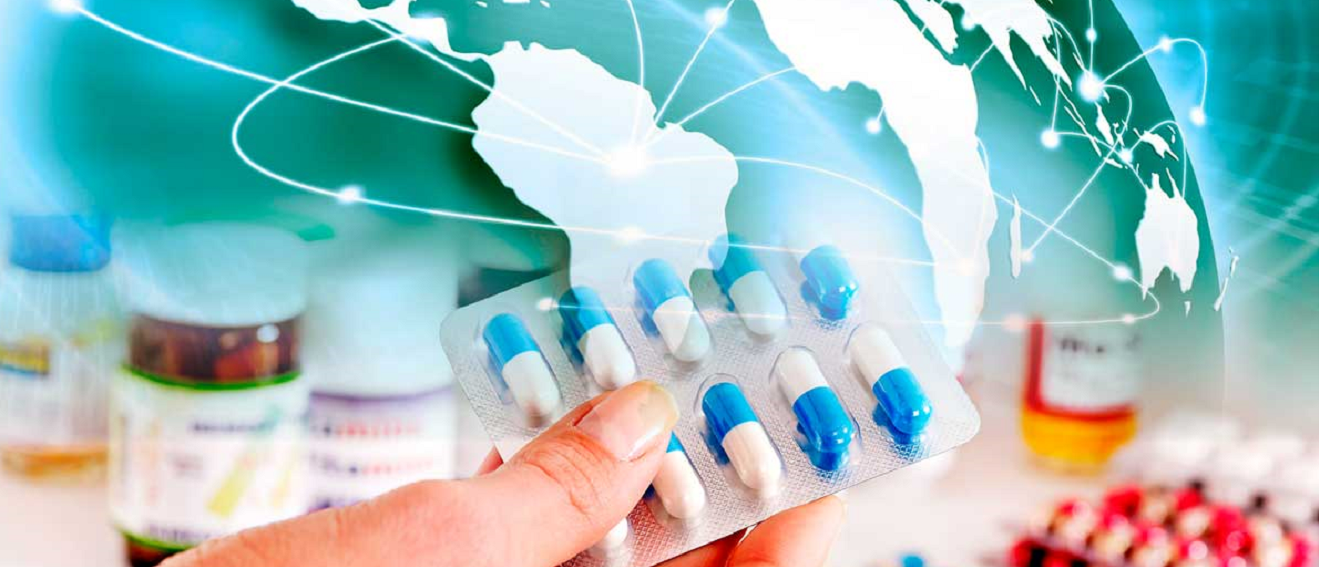
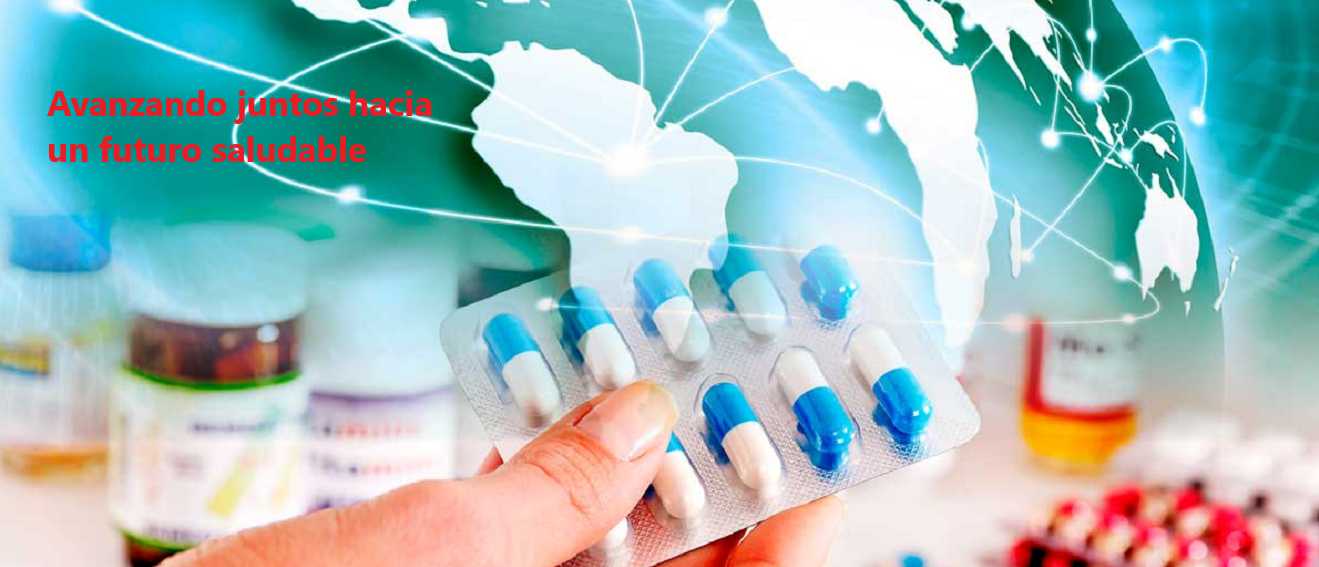
version versio 44

Changed region(s): [[0.0311, 0.1499, 0.3419, 0.2099], [0.0311, 0.2399, 0.2798, 0.2998]]

diff --git a/public/estilos.css b/public/estilos.css
@@ -414,8 +414,8 @@ input::placeholder {
 }
 
 .mosaico img {
-  width: 100%;
-  height: 100%;
+  width: 100vw;
+  height: auto;
 }
 
 button {
@@ -520,35 +520,37 @@ s #paginablog {
   flex-direction: column;
   justify-content: space-between;
   align-items: center;
-  margin-bottom: 30px;
+  margin-bottom: 2vw;
   background-color: #f1efef;
-  padding-bottom: 80px;
+  padding-bottom: 4vw;
 }
 
 #textIni {
   width: 95%;
-  height: 20px;
-  margin-top: 80px;
-  margin-left: 50px;
+  height: auto;
+  margin-top: 4vw;
+  margin-left: 3.2vw;
   border-bottom: red;
 }
 
+#textIni span{
+color:red;
+}
+
 #blogs {
-  margin-left: 50px;
-  margin-bottom: 10px;
-  margin-top: 50px;
-  width: 95%;
+  width: 93.5%;
+  margin: 3vw 0 1vw 3.8vw;
   height: auto;
   display: grid;
   grid-template-columns: repeat(3, 1fr);
-  grid-gap: 100px 60px;
+  grid-gap: 4vw 3vw;
   z-index: 0;
 }
 
 .div-blogs {
   display: flex;
   flex-direction: column;
-  gap: 10px;
+  gap: 1vw;
   background-color: white;
   box-shadow: 0px 0px 12px rgb(214, 213, 213);
 }
@@ -557,8 +559,7 @@ s #paginablog {
   width: 100%;
   height: 250px;
   float: left;
-  margin-right: 15px;
-  margin-bottom: 10px;
+  margin: 0 1vw .5vw 0;
 }
 
 .blogCategoria {
@@ -577,27 +578,27 @@ s #paginablog {
   justify-content: center;
   align-items: center;
   text-align: center;
-  font-size: 20px;
+  font-size: 1.2vw;
   font-weight: bold;
   color: black;
-  margin-bottom: 5px;
 }
 
 .p-blogs {
-  margin: 0px 15px 0 20px;
+  margin: 0 1vw 0 1vw;
   text-align: justify;
-  font-size: 15px;
-  line-height: 2;
+  font-size: 1vw;
+  line-height: 1.7;
   font-family: Tahoma;
   color: black;
 }
 
 .blogImgFinal {
-  margin-top: 20px;
-  margin-left: 80px;
-  margin-bottom: 10px;
+  margin: 1.5vw 1vw 1vw 1vw;
   display: flex;
   flex-direction: row;
+  justify-content: center;
+  align-items: center;
+  text-align: center;
 }
 
 
@@ -1439,7 +1440,7 @@ area de los mensaje ================================  alestas
 }
 
 #footerBase {
-  margin: 0 20px 20px 43px;
+  margin: 0 20px 20px 3.3vw;
   display: flex;
   flex-direction: row;
   justify-content: space-between;

diff --git a/public/index.html b/public/index.html
@@ -69,7 +69,7 @@
       <div id="cajon">
         <section id="pagina1">
           <div class="mosaico">
-            <p id="sloganPortada">Avanzando juntos hacia <br> un futuro saludable</p>
+        <!--     <p id="sloganPortada">Avanzando juntos hacia <br> un futuro saludable</p>  >-->
             <img src="/images/portada8.png" alt="Imagen 1" />
           </div>
           <div id="figura">
@@ -91,7 +91,7 @@
 
         <section id="paginablog">
           <div id="textIni">
-            <h2>Artículos del Blog</h2>
+            <h2>Artículos del <span>Blog</span></h2>
           </div>
           <div id="blogs">
             <div class="div-blogs">
